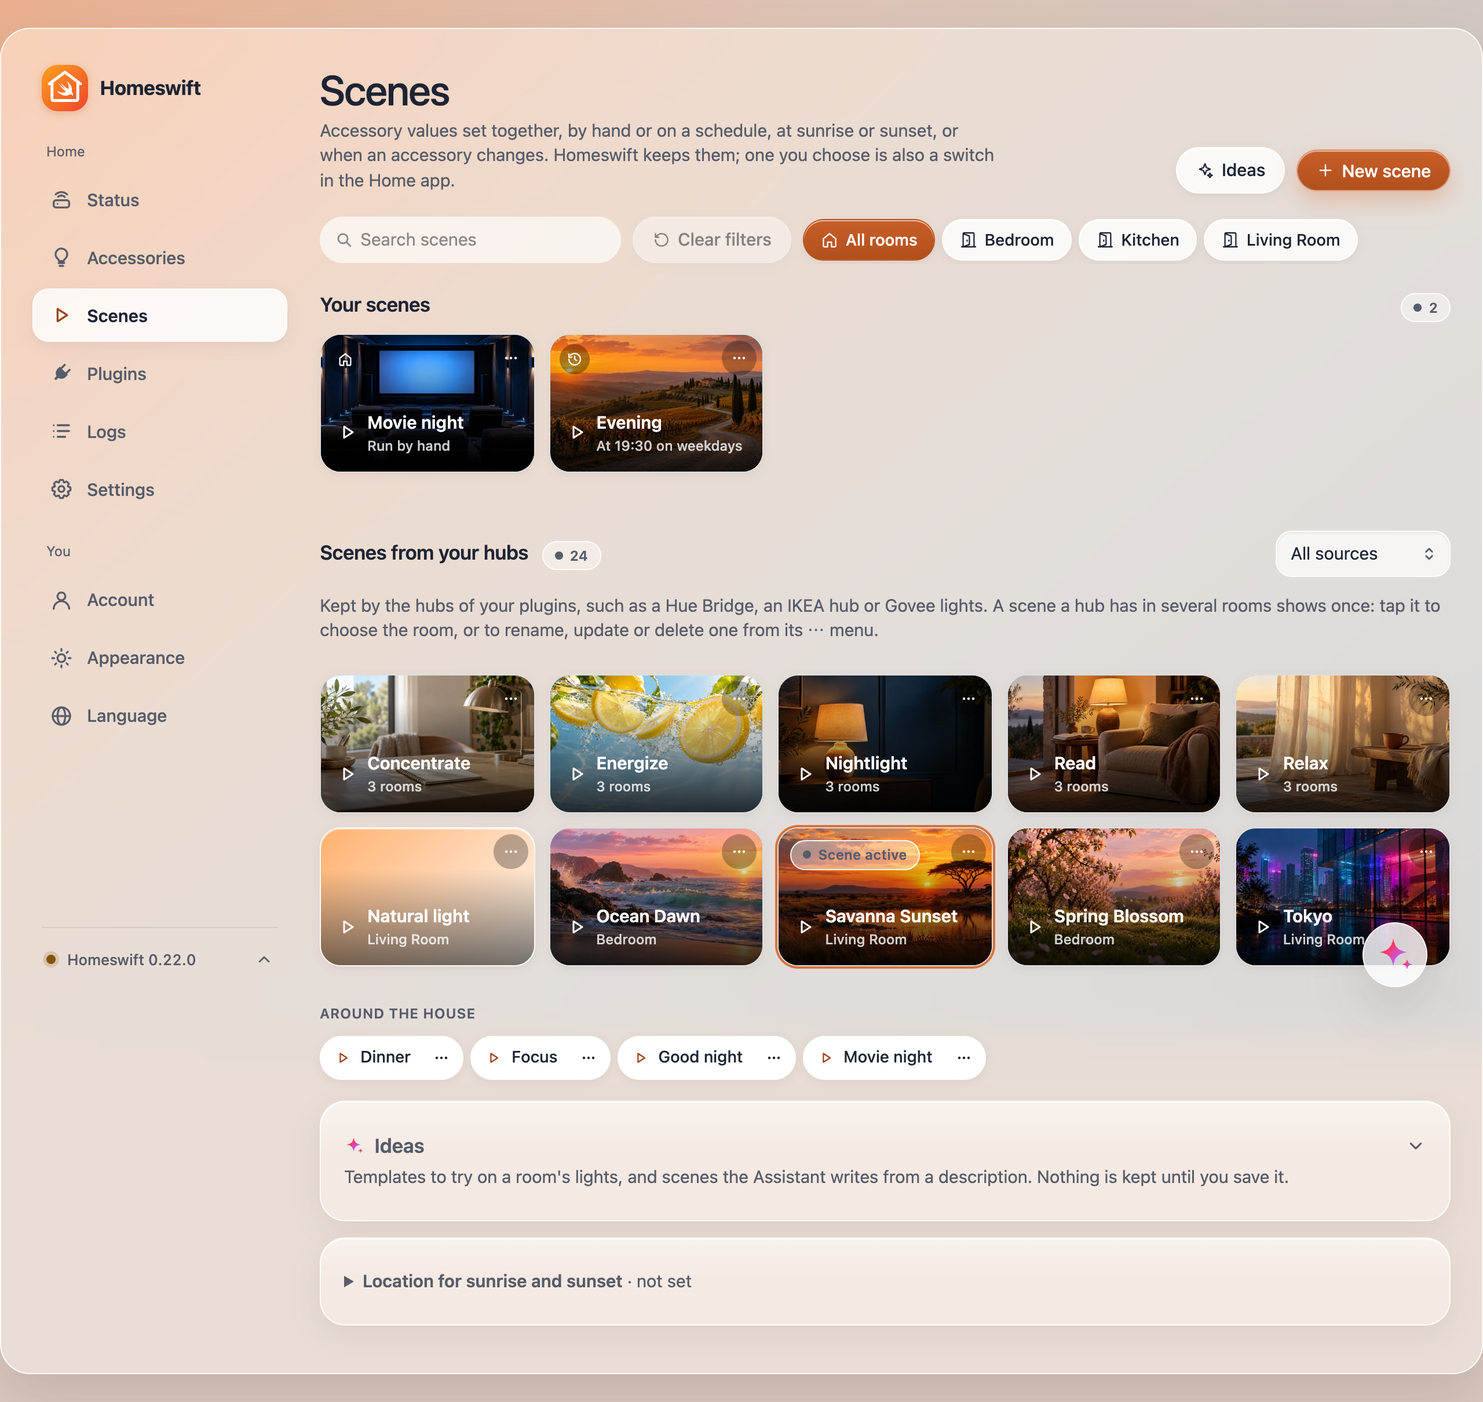
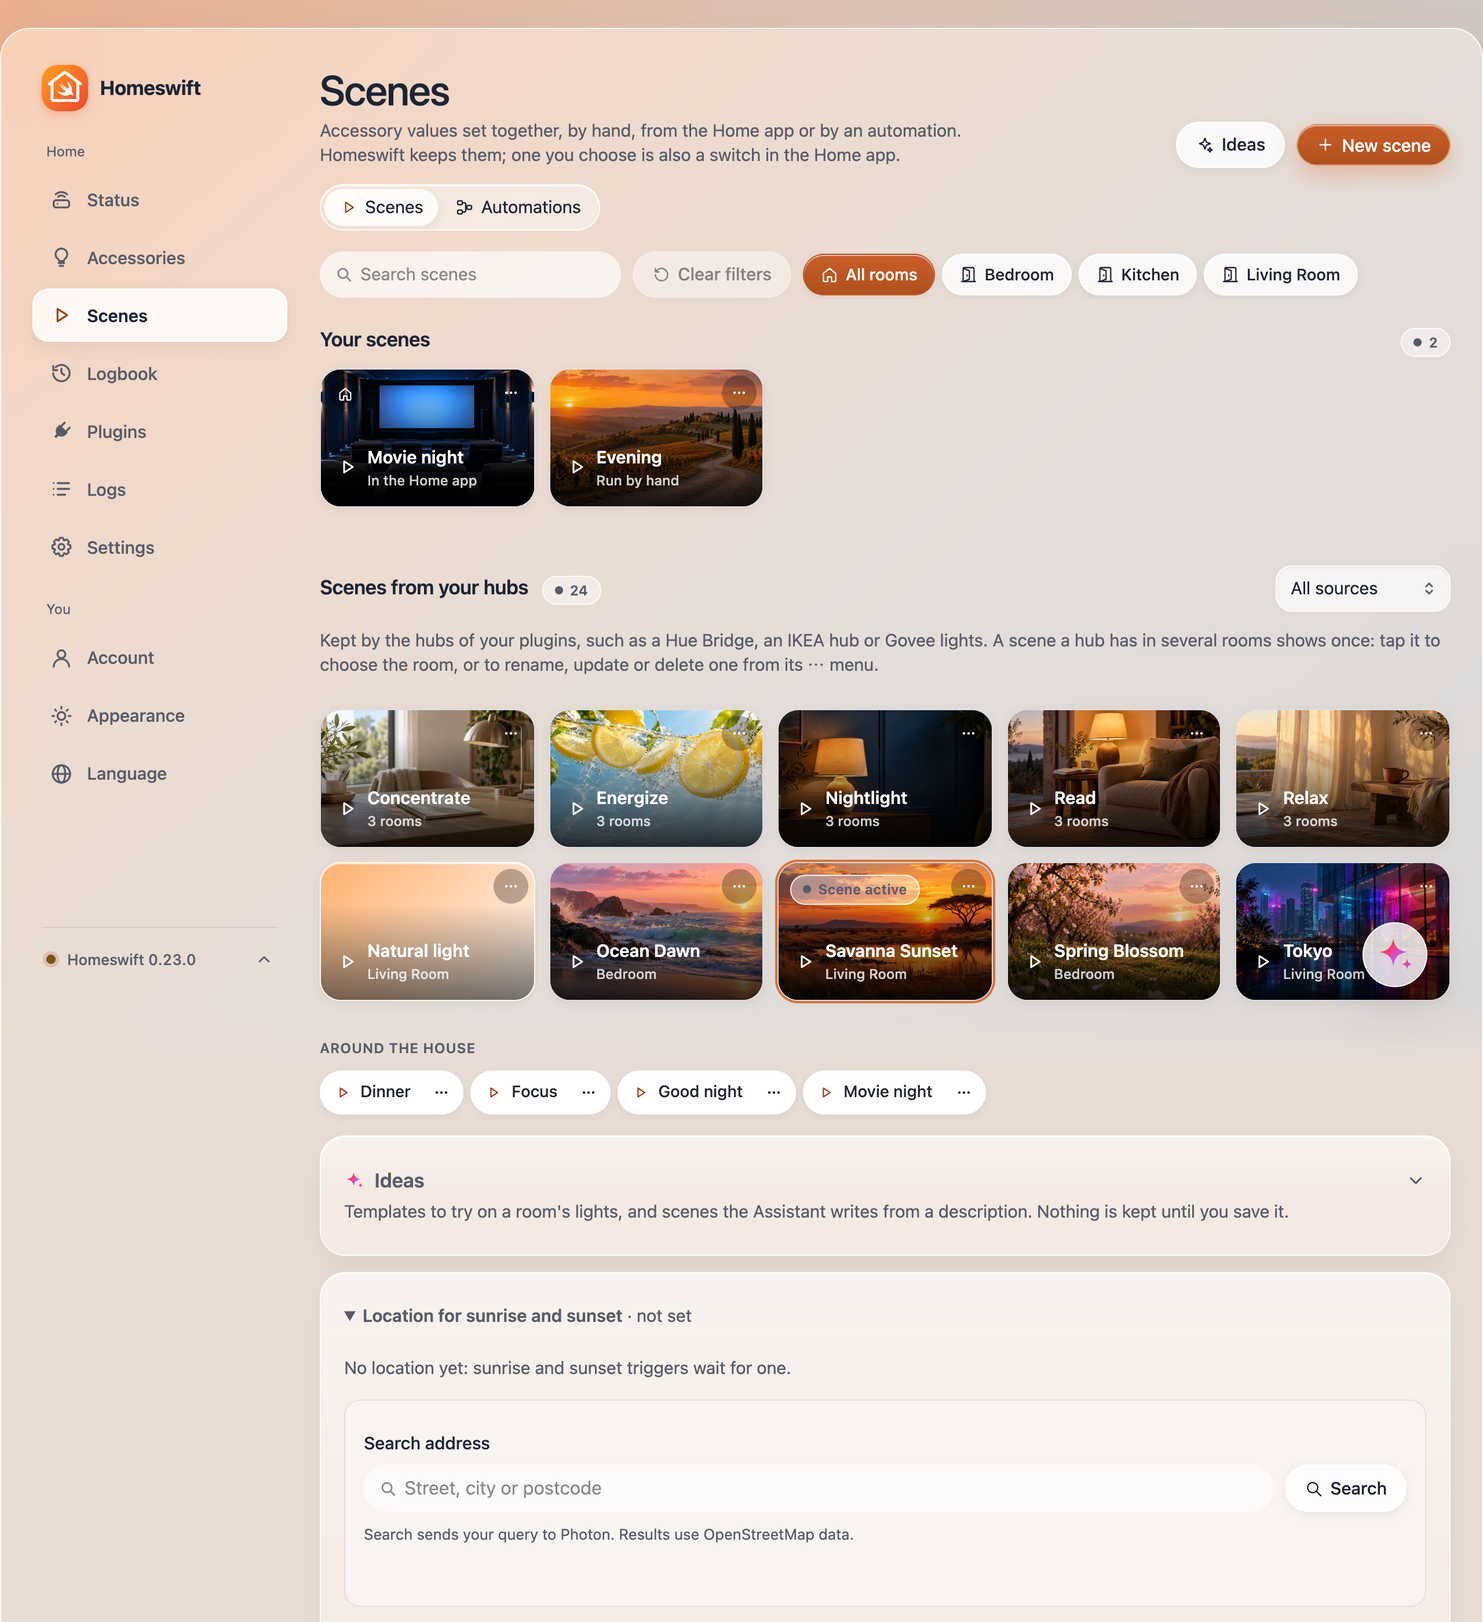
docs(automations): Scenes and Automations, the ADR, and the editor's screenshots
plugin-screenshots.mjs keeps its demonstration Evening scene to its values, adds
two Automations, retakes the scene shots and takes the Automations page and
editor in place of the scene editor's trigger and condition shots; its ports can
be moved by environment.

diff --git a/docs/ui.md b/docs/ui.md
@@ -305,19 +305,15 @@ a page to keep on a phone's home screen.
 
 ### Scenes and templates
 
-**Scenes** (`/scenes`, Glass UI's scenes): accessory values set together, by hand or by a trigger.
+**Scenes** (`/scenes`, Glass UI's scenes): accessory values set together, by hand, from the Home app or by an
+Automation (docs/adr/0007-scenes-and-automations-are-separate.md). A Scene has no trigger of its own: what runs on its
+own is an Automation, on the page's **Automations** tab ([Automations](#automations)).
 
-- **Triggers**: a time of day on chosen days, sunrise or sunset with an offset (-12 to +12 hours), a characteristic
-  change (the motion sensor turns on), or a cron expression (`30 7 * * 1-5`; five fields, or six with seconds, which are
-  ignored). Automations run on the minute; a characteristic trigger runs a scene at most once per 5 seconds.
-- **Conditions** hold an automatic run back: a time window (`sunset` to `23:00`, across midnight too) or a
-  characteristic's value. A run by hand ignores them. Sunrise and sunset come from Glass UI's equation for the location
-  set on the page (typed, or this device's position).
 - **Add an accessory as it is now** fills the actions from its current values.
 - **Locks, garage doors and alarms** keep Homeswift's rule that a person confirms them: the page asks before running a
   scene that has them, the MCP server's `run_scene` refuses such a scene (as homebridge-mcp-server's does), and
-  automations, with nobody to ask, leave those actions out and say so in the scene's last run. Glass UI sets them like
-  any value.
+  automations, with nobody to ask, leave those actions out and say so in their last run. Glass UI sets them like any
+  value.
 
 Scenes are kept in `scenes.json` next to config.json (owner-only), with each one's last run. The editor's **A switch
 in the Home app** makes the scene a switch of one **Homeswift Scenes** accessory on the bridge: turning it on runs the
@@ -325,13 +321,13 @@ scene, leaving out its locks, doors and alarms; turning it off puts the lights b
 on. The switch has the scene's name in the Home app: renaming the scene renames it there, and renaming it in the Home
 app renames the scene.
 
-![A scene as a switch in the Home app](images/ui/scene-homekit.png) A scene's tile says what
-starts it, its Details its room when its accessories share one, and **Scene active** while every value it sets is what its accessories show.
+![A scene as a switch in the Home app](images/ui/scene-homekit.png) A scene's tile says its
+room and whether it is in the Home app, its Details its room when its accessories share one, and **Scene active** while every value it sets is what its accessories show.
 Its ⋯ menu gives it a picture of your own (**Choose a picture…**, shrunk to 640 pixels; JPEG, PNG or WebP up to 1 MB)
 or takes it away; a hub's scene has the same menu, and its picture is the one the Hue or IKEA page shows. The bridge
 keeps them in `scene-pictures/` next to config.json. A hub's scene's menu also renames it on its hub, keeps its lights
 as they are now, or deletes it from the hub (after asking: it goes from the hub's own app too). A new scene of lights
-only, without triggers or an animation, can be saved to the Hue room or zone, or the IKEA hub, that has all its lights:
+only, without an animation, can be saved to the Hue room or zone, or the IKEA hub, that has all its lights:
 the editor's save bar offers it beside **Create the scene**.
 
 ![Scenes from your hubs, each shown once, with the scenes in no room under Around the house](images/plugins/scenes-from-hubs.png)
@@ -347,8 +343,8 @@ menu, and **Run in every room**; its own ⋯ runs it in every room, stops it, or
 runs at once. The scenes in no room (Apple Home's) are small
 buttons by name under **Around the house**, and several with one name show as one with their number (×3), which opens
 each copy. A tap recalls one on its hub; Hue's say **Scene active** while the bridge says so. **Stop** puts back the
-lights it changed, for 12 hours, as for any scene. **Automate** makes a Homeswift scene that recalls it, to give it
-triggers and conditions; the editor's **Add a hub scene…** adds one to any scene. The editor's **Animation** step
+lights it changed, for 12 hours, as for any scene. **Automate** makes a Homeswift scene that recalls it and opens a new
+Automation that applies it, for its triggers to be chosen; the editor's **Add a hub scene…** adds one to any scene. The editor's **Animation** step
 makes the chosen lights move after the actions: a style (candle, fire, sparkle, prism, underwater, a sunrise, moving
 colours, following the music…) with its speed, brightness and colour. Each brand plays it the way its own app does where
 its lights have it (Hue's effects, Govee's library scenes, an IKEA fade for a sunrise, a SONOFF L2 strip's scenes, an
@@ -396,14 +392,6 @@ On narrow screens, the workflow editor replaces the canvas with a full-width for
 
 ![Mobile workflow editor](images/ui/scene-workflow-phone.png)
 
-Trigger fields stack within the inspector on phones, with wrapping weekday controls.
-
-![Trigger controls](images/ui/scene-trigger-controls.png)
-
-Conditions use labeled start/end groups and full-width accessory controls on small phones.
-
-![Small-phone condition editor](images/ui/scene-condition-phone.png)
-
 Deleting a scene opens a confirmation in the UI’s design system. Cancel is focused first; Escape dismisses it without deleting.
 
 ![Scene deletion confirmation](images/ui/scene-delete.png)
@@ -423,6 +411,51 @@ Address suggestions appear after three characters, with a short typing delay and
 
 ![Address suggestions](images/ui/scene-address-search.png)
 
+### Automations
+
+**Automations** (`/automations`, a tab beside Scenes; GLOSSARY.md): what the bridge does on its own. When any of its
+**Triggers** fires and all its **Conditions** hold, its **Steps** run in order.
+
+- **Triggers**: a time of day on chosen days; sunrise or sunset with an offset (-12 to +12 hours); a cron expression
+  (`30 7 * * 1-5`; five fields, or six with seconds, which are ignored); an accessory's value that changes or starts to
+  compare with a value (the motion sensor turns on); a value that **stays** so for a while (the door open for ten
+  minutes); a number that **crosses a threshold** (the temperature rises above 26). Timed triggers run on the minute;
+  one on a value fires at most once per 5 seconds. A Person arriving or leaving, and Anyone Home, come with the Presence
+  plugin.
+- **Conditions**: a time window (`sunset` to `23:00`, across midnight too) or an accessory's value. **Run now** ignores
+  them. Sunrise and sunset are for the location set on the Scenes page (typed, or this device's position).
+- **Steps**: apply a Scene, set a value, wait, wait until a value (with the longest it waits, then it goes on), notify
+  (through the channels of [Notifications](#notifications), as "A message from an automation"), or call a plugin's
+  action: one its plugin offers to MCP clients and the Assistant without asking a person to confirm, its fields drawn
+  from the action's input schema.
+- **Mode**: **Restart** (the default): a trigger that fires during a run cancels it and starts again, as "turn the
+  hall on, wait five minutes, turn it off" wants for each new motion. **Single**: a trigger during a run is ignored, and
+  the last run says so.
+- **Locks, garage doors and alarms** are never set by an Automation: a Step on one, or the part of a Scene that changes
+  one, is left out and its last run says so. Over MCP, saving an Automation that names one (in a trigger, a condition
+  or a Step) asks the person first.
+- **A switch in the Home app** puts the Automation on the **Homeswift Scenes** accessory, beside the scenes' switches:
+  the switch turns the Automation on and off; it never runs it.
+- **Describe it**: a sentence for the Assistant, whose draft opens in the editor to review; nothing is saved before you
+  save it. The Assistant sees the accessories by handles, with their names, rooms and characteristics, the scenes and
+  the plugins' actions, never their ids.
+
+Each card says what starts it, its steps and its last run (or why a trigger's run was skipped), with its on switch and
+**Run now**. Automations are kept in `automations.json` next to config.json (owner-only), with each one's last run and
+each Step's result. At its first start after the update, the bridge turns each Scene of `scenes.json` that had
+triggers or conditions into an Automation of the same name whose single Step applies it; the Scene keeps its values,
+its picture and its switch. Every change an Automation makes is its own in the [Logbook](#history-and-logbook).
+
+![The Automations page](images/ui/automations.png)
+
+![An Automation's editor: a value that stays, then a scene, a wait, a value and a notification](images/ui/automation-editor.png)
+
+![The editor on a phone](images/ui/automation-editor-phone.png)
+
+`/api/automations` (GET; POST, PUT and DELETE for administrators), `/api/automations/<id>/run` and
+`/api/automations/draft` answer the page; over MCP, `list_automations`, `save_automation`, `run_automation` and
+`delete_automation` ([docs/mcp.md](mcp.md)).
+
 ### Notifications
 
 ![Notification channels and event switches](images/notifications.png)
@@ -435,7 +468,8 @@ switches and a **Send a test**, under a Save bar.
   **Bearer token** or **Basic authentication** and custom headers; headers that would change the transport, or a second
   Authorization, are refused.
 - **Events**: homeswift started (not after a restart it made itself) and stopped, a plugin logged an error, an accessory
-  answered No Response for 5 minutes while its plugin is not paused, an automation failed, the daily backup failed or
+  answered No Response for 5 minutes while its plugin is not paused, an automation failed, an automation's Notify
+  Step, the daily backup failed or
   (off until turned on) was saved, and the Assistant's daily digest at a time of your choice (off until turned on: it
   uses the provider's quota). Glass UI's update and rollback events have no counterpart here: plugins are compiled in.
 - **Limits**: the same event about the same thing goes once per 15 minutes, 12 notifications an hour at most, 5 tests

diff --git a/docs/mcp.md b/docs/mcp.md
@@ -200,9 +200,9 @@ sends you back.
 
 | Scope | Tools |
 |---|---|
-| `read` | `get_server_status`, `list_accessories`, `get_accessory`, `get_accessory_history`, `get_logbook`, `list_plugins`, `get_config`, `list_config_backups`, `list_vault`, `get_recent_logs`, `search_logs`, `get_system_info`, `list_child_bridges`, `get_child_bridge_health`, `get_cached_accessories`, `get_pairing_info`, `get_matter_status`, `list_backups`, `get_settings`, `get_accessory_layout`, `get_wall_layout`, `list_scenes`, `list_scene_templates`, `list_hub_automations`, `get_assistant_usage`, `get_daily_digest`, `get_consumption`, `get_tariffs` |
-| `control` | Plus `set_accessory`, `set_accessories` (with `dryRun`), `set_security_accessory`, `identify_accessory`, `run_scene` (a saved scene, a hub's, or a `plan`), `stop_scene` |
-| `admin` | Plus `update_config`, `patch_config`, `restore_config`, `migrate_to_vault` (with `dryRun`), `update_settings` (with `dryRun`), `forget_device` (with `dryRun`), `restart_bridge`, `restart_child_bridge`, `stop_child_bridge`, `start_child_bridge`, `remove_cached_accessory`, `reset_cached_accessories`, `reset_pairings`, `open_matter_commissioning_window`, `remove_matter_fabric`, `set_matter_device`, `create_backup`, `get_audit_log`, `update_bridge_settings`, `set_accessory_layout`, `set_wall_layout`, `save_scene` (with `dryRun`), `update_hub_scene` (with `dryRun`), `delete_hub_scene`, `update_hub_automation` (with `dryRun`), `delete_hub_automation`, `send_test_notification`, `truncate_logs`, `test_assistant_connection`, `update_tariffs` (with `dryRun`) |
+| `read` | `get_server_status`, `list_accessories`, `get_accessory`, `get_accessory_history`, `get_logbook`, `list_plugins`, `get_config`, `list_config_backups`, `list_vault`, `get_recent_logs`, `search_logs`, `get_system_info`, `list_child_bridges`, `get_child_bridge_health`, `get_cached_accessories`, `get_pairing_info`, `get_matter_status`, `list_backups`, `get_settings`, `get_accessory_layout`, `get_wall_layout`, `list_scenes`, `list_scene_templates`, `list_automations`, `list_hub_automations`, `get_assistant_usage`, `get_daily_digest`, `get_consumption`, `get_tariffs` |
+| `control` | Plus `set_accessory`, `set_accessories` (with `dryRun`), `set_security_accessory`, `identify_accessory`, `run_scene` (a saved scene, a hub's, or a `plan`), `stop_scene`, `run_automation` |
+| `admin` | Plus `update_config`, `patch_config`, `restore_config`, `migrate_to_vault` (with `dryRun`), `update_settings` (with `dryRun`), `forget_device` (with `dryRun`), `restart_bridge`, `restart_child_bridge`, `stop_child_bridge`, `start_child_bridge`, `remove_cached_accessory`, `reset_cached_accessories`, `reset_pairings`, `open_matter_commissioning_window`, `remove_matter_fabric`, `set_matter_device`, `create_backup`, `get_audit_log`, `update_bridge_settings`, `set_accessory_layout`, `set_wall_layout`, `save_scene` (with `dryRun`), `save_automation` (with `dryRun`; asks first when it names a lock, garage door or alarm), `delete_automation`, `update_hub_scene` (with `dryRun`), `delete_hub_scene`, `update_hub_automation` (with `dryRun`), `delete_hub_automation`, `send_test_notification`, `truncate_logs`, `test_assistant_connection`, `update_tariffs` (with `dryRun`) |
 
 A token sees only the tools its scope allows. Locks, garage doors and alarms (Lock Target State, Target
 Door State, Security System Target State, Lock Control Point) change only through `set_security_accessory`;
@@ -301,8 +301,17 @@ its snapshot settings. TLV8 and data values mean nothing as text: they are null 
   security control. With the accessories' rooms,
   that is what the Assistant needs to compose a wall ("arrange my wall by room"). An open Accessories page draws
   the wall again when it or the rooms change, whoever changed them (a `layout` event on the web UI's event stream).
-- **Scenes.** `list_scenes` lists the web UI's scenes with their room, whether they are active now, their actions,
-  triggers, conditions and last run, and `"security": true` on one that changes a lock, a garage door or an alarm;
+- **Automations** (GLOSSARY.md; [docs/ui.md](ui.md#automations)). `list_automations` lists each Automation's triggers
+  (`time`, `sun`, `cron`, `characteristic`, `stays` with `forSeconds`, `threshold` with `direction`), conditions,
+  steps (`scene`, `set`, `wait`, `waitUntil`, `notify`, `tool`), `mode` (`restart` or `single`), whether it is on, whether
+  it touches a lock, a garage door or an alarm (`security`) and its last run with each step's result, and the plugins'
+  actions a `tool` step may call (`tools`: those that need no confirmation, with their input schemas).
+  `save_automation` creates one or, with its `id`, changes it; its arguments are checked as the page's are (`dryRun`
+  checks without saving), and one that names a security accessory asks the user first. `run_automation` runs the steps
+  now, whatever the triggers and conditions, and answers the run. `delete_automation` asks first. An Automation never
+  sets a lock, a garage door or an alarm: such a step is skipped, and the run says so.
+- **Scenes.** `list_scenes` lists the web UI's scenes with their room, whether they are active now, their actions
+  and last run (what runs them on their own is an Automation's), and `"security": true` on one that changes a lock, a garage door or an alarm;
   and `pluginScenes`, the scenes plugins' hubs keep (a Hue Bridge's, a DIRIGERA hub's, a Govee light's picks), with
   their room, source and whether the hub says they are on. `run_scene` (an id or a name) runs either kind, or a
   `plan` the client composes (values to set and hubs' scenes to recall, `{"recall": id}`), which runs at once and is

diff --git a/docs/scenes-design.md b/docs/scenes-design.md
@@ -10,9 +10,12 @@ is the design agreed before the work started; each slice below lands on its own 
   what it can do with each (`recall`, `rename`, `update`, `create`, `delete`, `animate`).
 - **Source of truth.** The hub keeps its own scenes; Homeswift keeps no copy. Writes go through and are read
   back; the last write wins.
-- **Triggers.** Only Homeswift scenes have triggers and conditions. A plugin scene is automated by a Homeswift
-  scene with a plugin-scene action (the "Automate" button makes one). An action whose plugin scene went away is
-  kept, skipped at run time, and reported in `lastSkipped`.
+- **Triggers.** No scene has triggers or conditions: an Automation does (`Automations.swift`,
+  docs/adr/0007-scenes-and-automations-are-separate.md), and one of its Steps applies a scene. The triggers and
+  conditions `scenes.json` had move, at the first start, into an Automation per scene with that scene's name and a
+  single Step that applies it. A plugin scene is automated by a Homeswift scene with a plugin-scene action, applied by
+  an Automation (the "Automate" button makes both). An action whose plugin scene went away is kept, skipped at run
+  time, and reported in the run.
 - **Lights.** A scene made for a room (from a template, by the Assistant) lists its lights when it is made; the
   editor offers to add the room's new lights.
 - **Rooms.** A plugin scene sits in the Homeswift room of the same name as its hub's room or zone, else in
@@ -77,7 +80,8 @@ The AI composes a scene and runs it without saving it, as moods did:
 - **HomeKit:** a Homeswift scene can be a switch, chosen per scene (`homeKit`), on one "Homeswift Scenes" accessory
   (`Homeswift:scenes`, a switch per scene with subtype `scene:<id>`; `SceneSwitches.swift`); the plugins' scene
   switches stay as they are. A switch carries the scene's name in Name and Configured Name, which the Home app follows:
-  renaming the scene renames the switch there, and renaming the switch in the Home app renames the scene.
+  renaming the scene renames the switch there, and renaming the switch in the Home app renames the scene. An
+  Automation can have a switch on the same accessory (subtype `automation:<id>`), which turns it on and off.
 - **Govee** provides the scenes picked on its page; the library stays a place to pick from.
 - **Removed:** `list_moods`, `start_mood`, `stop_mood`, `/api/moods/*`, `held-moods.json`, `design-mood.md`;
   `stop_scene` and `undo_scene` are added.
@@ -93,3 +97,6 @@ The AI composes a scene and runs it without saving it, as moods did:
    `hub`, `update_hub_scene`, `delete_hub_scene`; the plugin API's `sceneTarget`, `createScene`, `updateScene`,
    `deleteScene`.
 7. eWeLink's own modes: the L2 strip's scenes (`EWeLinkEffects.swift`).
+8. Automations apart from scenes: a scene keeps only its values; its triggers and conditions move to an Automation
+   (Triggers, Conditions and Steps, modes, `list_automations`, `save_automation`, `run_automation`,
+   `delete_automation`, the `/automations` page, the Assistant's draft).

diff --git a/CHANGELOG.md b/CHANGELOG.md
@@ -6,7 +6,20 @@ All notable changes to this project are documented here. The format follows
 
 ## [Unreleased]
 
+### Changed
+
+- Scenes and Automations are separate (docs/adr/0007-scenes-and-automations-are-separate.md): a Scene is only its
+  values. At the first start, each Scene with triggers or conditions becomes an Automation of the same name whose single
+  Step applies it. A Scene saved with `triggers` or `conditions` is refused.
+
 ### Added
+
+- Automations (`/automations`, beside Scenes): Triggers (a time, the sun, cron, an accessory's change, a value that
+  stays so for a while, a number crossing a threshold), Conditions, and Steps run in order (apply a Scene, set a value,
+  wait, wait until, notify, a plugin's action that needs no confirmation), in Restart or Single mode. Locks, garage doors
+  and alarms are never set by one. An Automation may be a switch on the Homeswift Scenes accessory, which turns it on and
+  off. The Assistant drafts one from a sentence, for review. MCP: `list_automations`, `save_automation`,
+  `run_automation`, `delete_automation`.
 
 - History and Logbook: the bridge records every characteristic change of every accessory under `history/`: states at
   each change, numbers at most every 10 seconds (at once past their step, else once settled) and by the hour (lowest,
